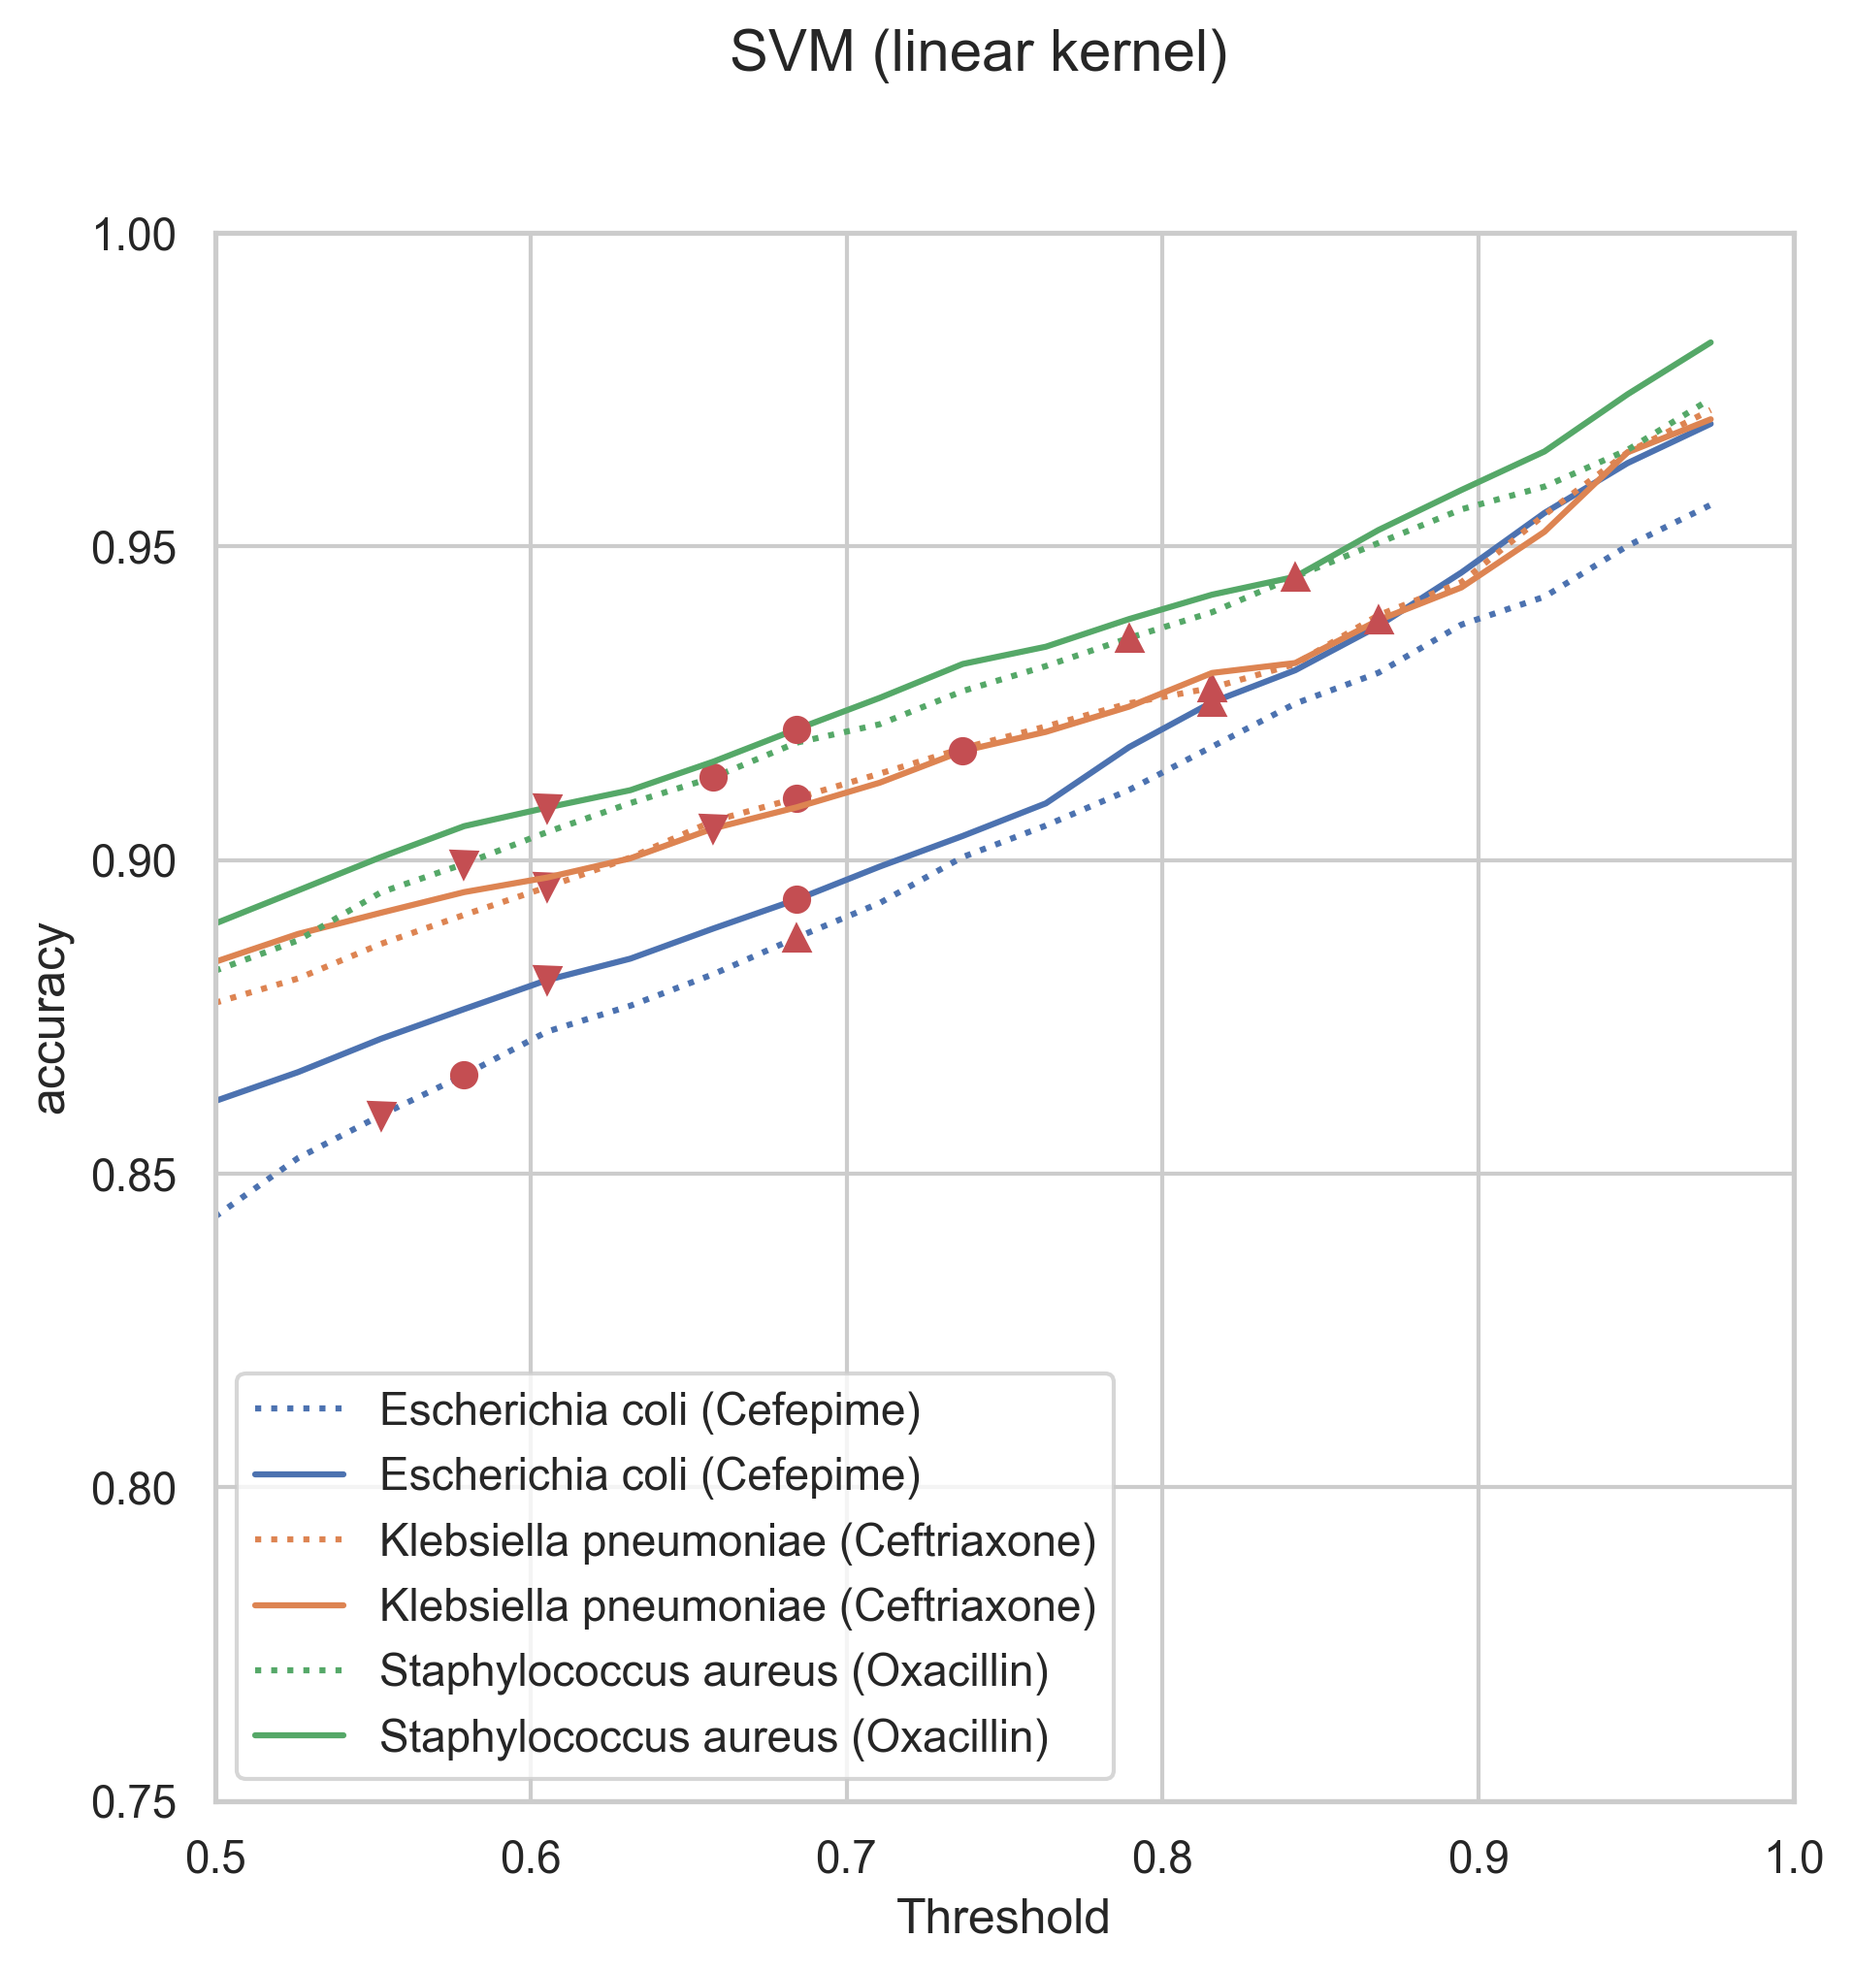
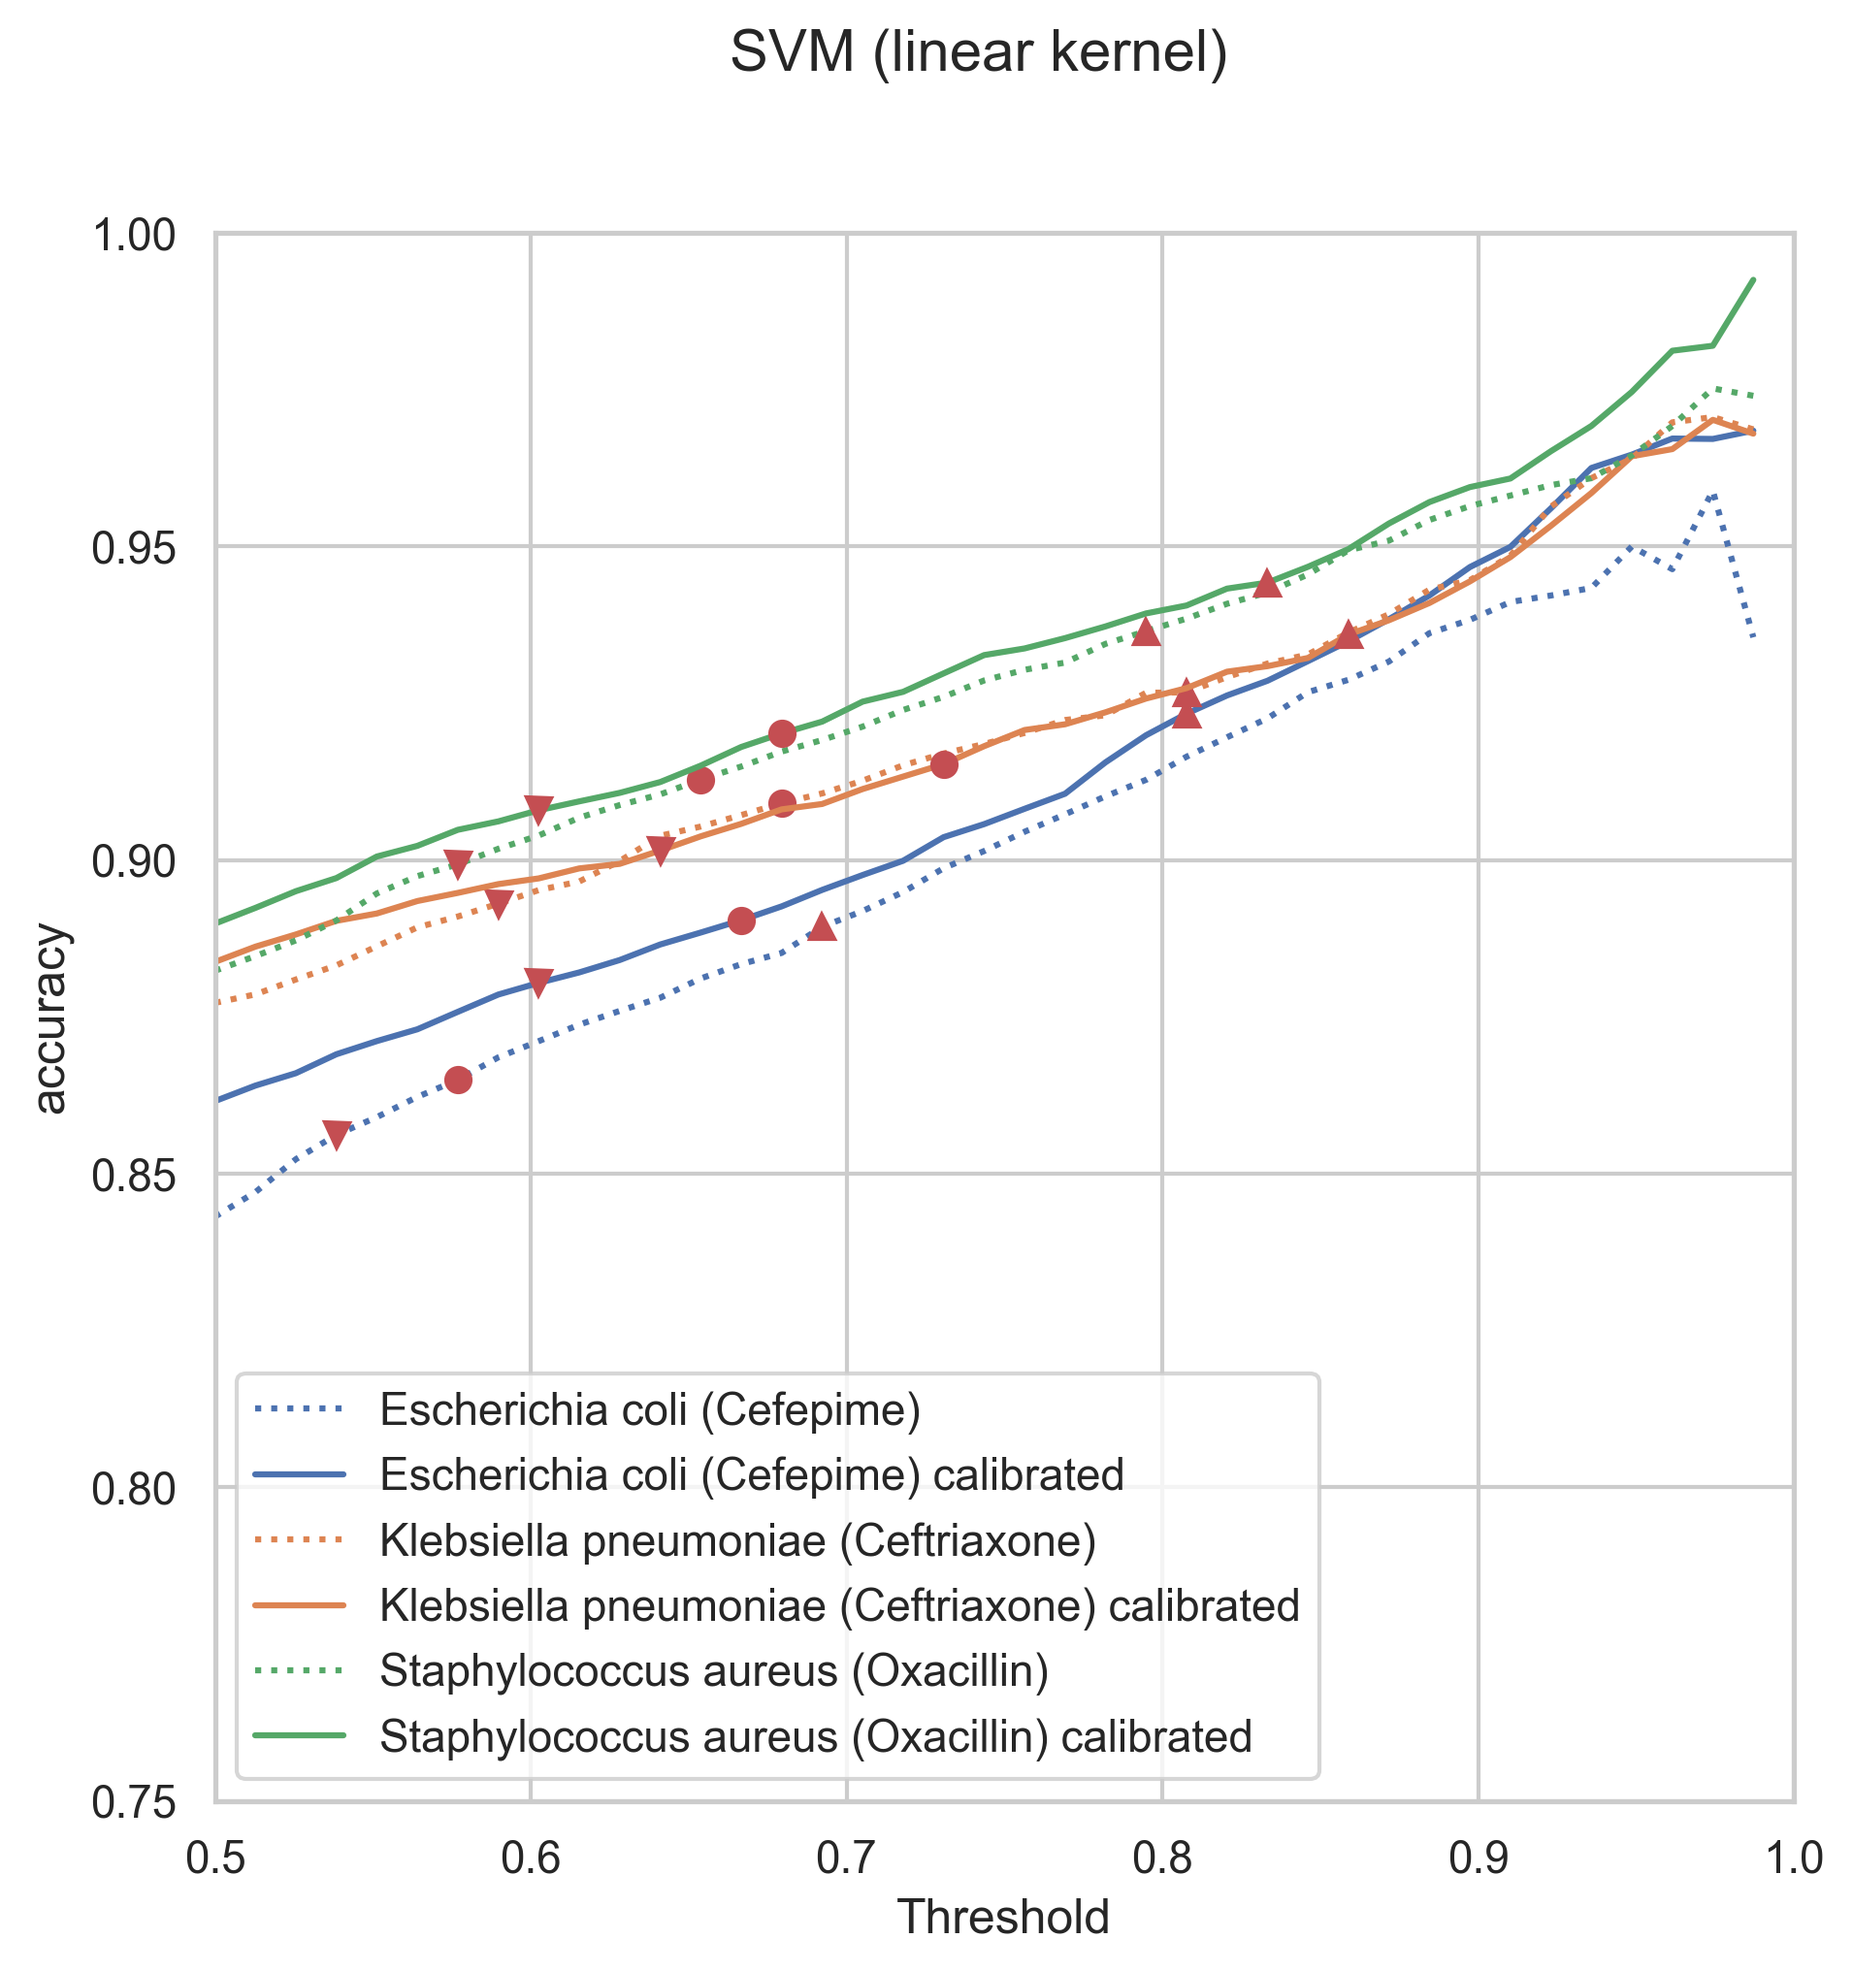
add rejection ratio points to calibration plots

diff --git a/amr_maldi_ml/plot_calibration_curves.py b/amr_maldi_ml/plot_calibration_curves.py
@@ -197,7 +197,7 @@ def make_rejection_curve(y_true, y_score, metric):
     -------
     Tuple of (x, y) values, corresponding to the simulated scenario.
     """
-    thresholds = np.linspace(0.5, 1.0, 20)
+    thresholds = np.linspace(0.5, 1.0, 40)
     y_score_max = np.amax(y_score, axis=1)
     n_samples = len(y_score_max)
 
@@ -330,7 +330,7 @@ def plot_rejection_curves(df, metric, outdir):
 
     kr_to_fmt = {
         0.95: 'vr',
-        0.9: 'or',
+        0.90: 'or',
         0.75: '^r',
     }
 
@@ -343,7 +343,8 @@ def plot_rejection_curves(df, metric, outdir):
             curve[1],
             c=colour,
             linestyle='dotted' if curve_type == 'raw' else 'solid',
-            label=f'{species} ({antibiotic})',
+            label=f'{species} ({antibiotic})' if curve_type == 'raw' \
+                  else f'{species} ({antibiotic}) {curve_type}',
         )
         
         for kr in [0.95, 0.9, 0.75]:
